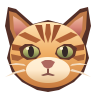
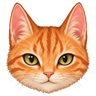
fix: match the progress portrait to playable Mika

diff --git a/docs/design/level-progress/README.md b/docs/design/level-progress/README.md
@@ -11,7 +11,7 @@ Use a distinct painted fill and bind each checkpoint to its world renderer.
 The integration test discovers levels from the same registry.
 
 The mockups use archived gameplay captures to show the HUD at start, past a
-checkpoint, and after backtracking. The layered PhotoCraft source for Mika's front-facing portrait is included.
+checkpoint, and after backtracking. The earlier PhotoCraft portrait study is included. The runtime portrait uses the playable sprite references documented in ASSETS.md.
 The existing fill textures come from the original PhotoCraft concepts and
 their pigment pass. Run paint-progress.py from the repository root with the
 folder containing the original fill PNG exports to reproduce that pass.
